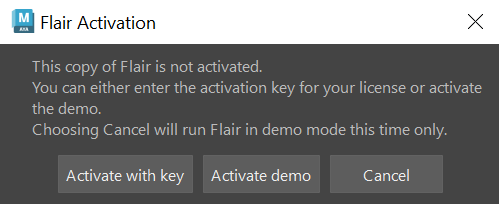
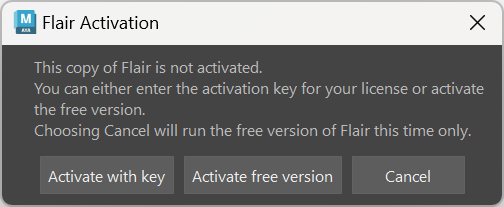
Changing Demo to Free in documentation

diff --git a/flair/setup.md b/flair/setup.md
@@ -32,14 +32,14 @@ _Resizable BAR_ (Base Address Register) or _AMD SAM_ (Smart Access Memory) found
 
 ---
 ## Download
-Get a **commercial, non-commercial or demo** version of Flair below.
+Get a **commercial, non-commercial or free** version of Flair below.
 
 [Get Flair](https://artineering.io/software/flair#download){: target="_blank" .aio-btn .d-block}
 
-**Demo versions are free to use** and are limited only in resolution to 1280 x 800.
+**Free versions** are limited only in resolution to 1280 x 800.
 
 Upon purchasing Flair, you can download any version through the link you receive via email.  
-You can also download the demo version and [activate a license](#activation) with your activation key.
+You can also download the free version and [activate a license](#activation) with your activation key.
 {: info}
 
 ---
@@ -85,7 +85,7 @@ The license will be placed in `Program Files/Common Files/Autodesk Shared/Module
 Purchasing a Flair **license enables the full functionality of Flair** upon activation.  
 Activate Flair by entering and **validating an activation key** that is sent to you via email shorly after purchase.
 
-**An internet connection is required** to activate and validate Flair licenses, except for the Demo version.
+**An internet connection is required** to activate and validate Flair licenses, except for the Free version.
 
 A **single Flair license** can be active on **only one computer at a time**.  
 Licenses can be **migrated between computers after 12 hours** have passed from a previous activation.
@@ -100,8 +100,8 @@ The first time Flair is run, you will be prompted with the following dialog:
 </figure>
 
 * **Activate with key** lets you to enter the activation key of your license.  
-* **Activate demo** activates the demo version of Flair, with limited resolution of 1280 x 800 pixels.
-* **Cancel** runs Flair as demo this time only. You will be prompted again the next time Flair loads.
+* **Activate free version** activates the free version of Flair, with limited resolution of 1280 x 800 pixels.
+* **Cancel** runs Flair as the free version this time only. You will be prompted again the next time Flair loads.
 
 After clicking `Activate with key`, enter the activation key you received when purchasing Flair and click `OK`.
 
@@ -121,7 +121,7 @@ The EULAs for each version of Flair can be found below:
 * [Flair Studio EULA](https://artineering.io/legal/flair-studio-eula)
 * [Flair Indie EULA](https://artineering.io/legal/flair-indie-eula)
 * [Flair Community EULA](https://artineering.io/legal/flair-community-eula)
-* [Flair Demo EULA](https://artineering.io/legal/flair-demo-eula)
+* [Flair Free EULA](https://artineering.io/legal/flair-free-eula)
 
 Once you have read and agreed to the End-User License Agreement, click on **I Agree**. You will then be asked to confirm the activation on this computer. 
 
@@ -136,7 +136,7 @@ Click **Activate** to confirm and activate, or **Cancel** to abort the activatio
 
 If a license has been previously activated, you may want to remove the activated license and **activate a different license** instead.
 
-This is useful when upgrading/downgrading between the Demo, Community, Indie or Studio licenses.
+This is useful when upgrading/downgrading between the Free, Community, Indie or Studio licenses.
 {: .info}
 
 You can activate a different license by **installing Flair** again and choosing to **delete the existing license**.
@@ -169,7 +169,7 @@ After inputting the **activation key on the new computer**, you will be prompted
 	<figcaption>Flair license prompt that appears if an existing license is found.</figcaption>
 </figure>
 
-Click `Activate` to confirm, or `Cancel` to abort activation and run as demo for this session.
+Click `Activate` to confirm, or `Cancel` to abort activation and run the free version for this session.
 
 After a successful migration, the license in the **other computer will automatically deactivate** and you can **use Flair in the new computer**.
 

diff --git a/_includes/faq/useofflair.md b/_includes/faq/useofflair.md
@@ -1,6 +1,6 @@
 Can I use Flair for my student production?
 <div markdown="1">
-Yes, of course! As a student, you can either use the Demo version or support us on Patreon for 5€ per month to get a community license and render at any resolution. Additionally, you can also ask your university to purchase Flair Indie for Education so that you can use it.
+Yes, of course! As a student, you can either use the Free version or support us on Patreon for 5€ per month to get a community license and render at any resolution. Additionally, you can also ask your university to purchase Flair Indie for Education so that you can use it.
 </div>
 
 Are there floating licenses available?

diff --git a/_includes/faq/setup.md b/_includes/faq/setup.md
@@ -29,7 +29,7 @@ If the license still has not arrived within an hour [contact us](https://artinee
 I receive an activation failure
 <div markdown="1">
 If activation key is not valid, or the existing license is no longer valid, an error message will appear.
-`Retry` will prompt you to enter a valid activation key, and `Cancel` will run Flair as demo this session.
+`Retry` will prompt you to enter a valid activation key, and `Cancel` will run Flair as the free version this session.
 </div>
 
 The viewport is all black and I get the Error compiling GLSL code. 
